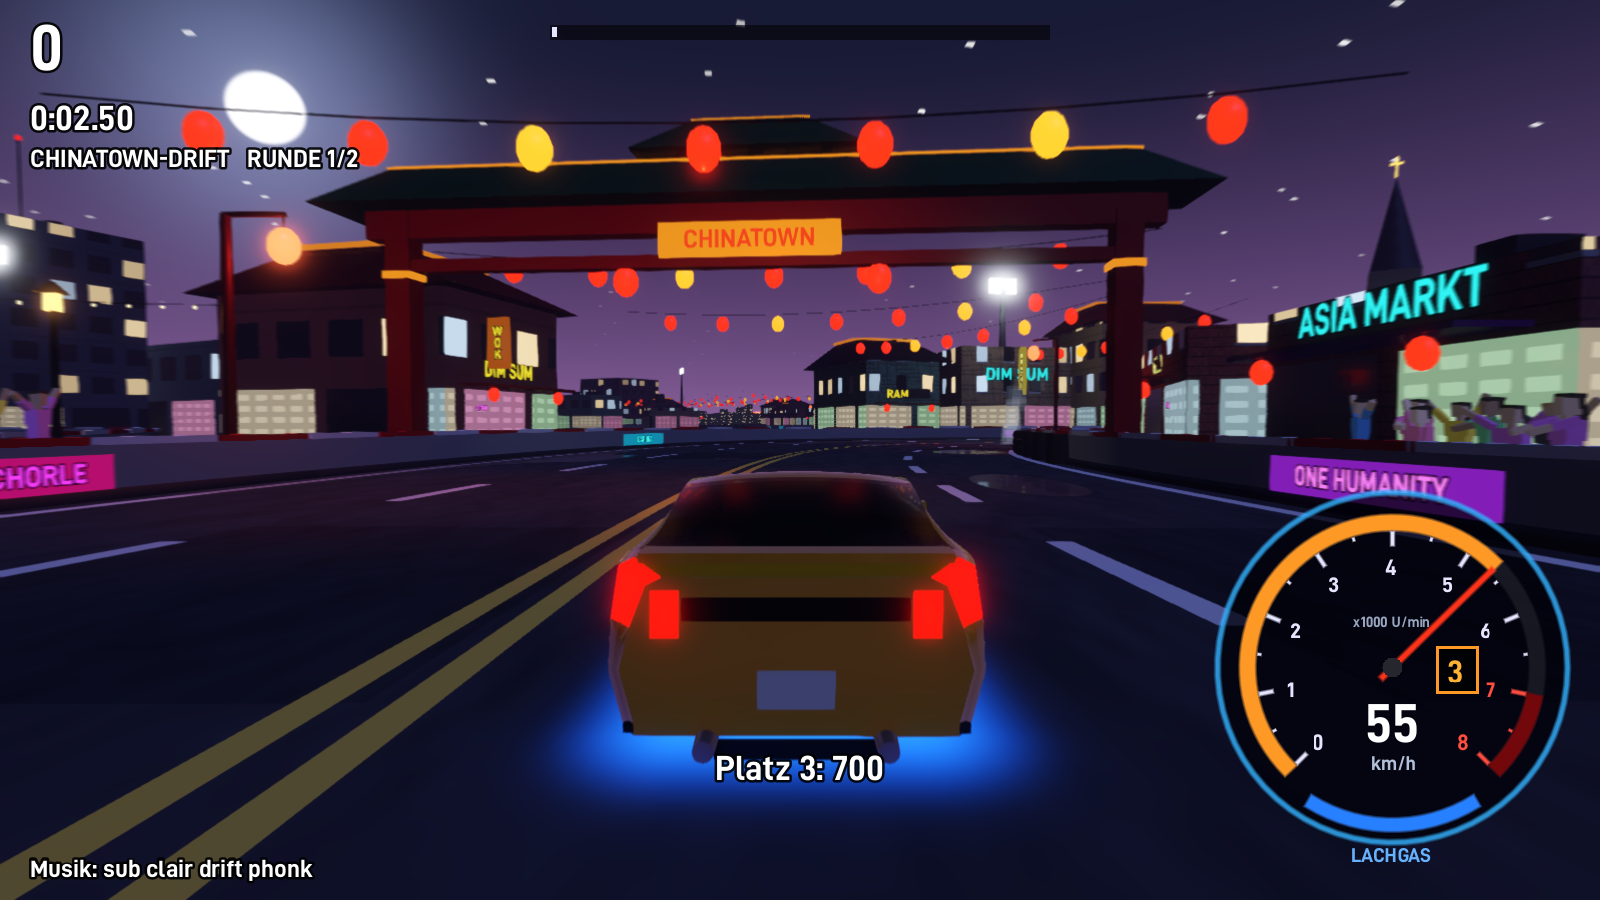
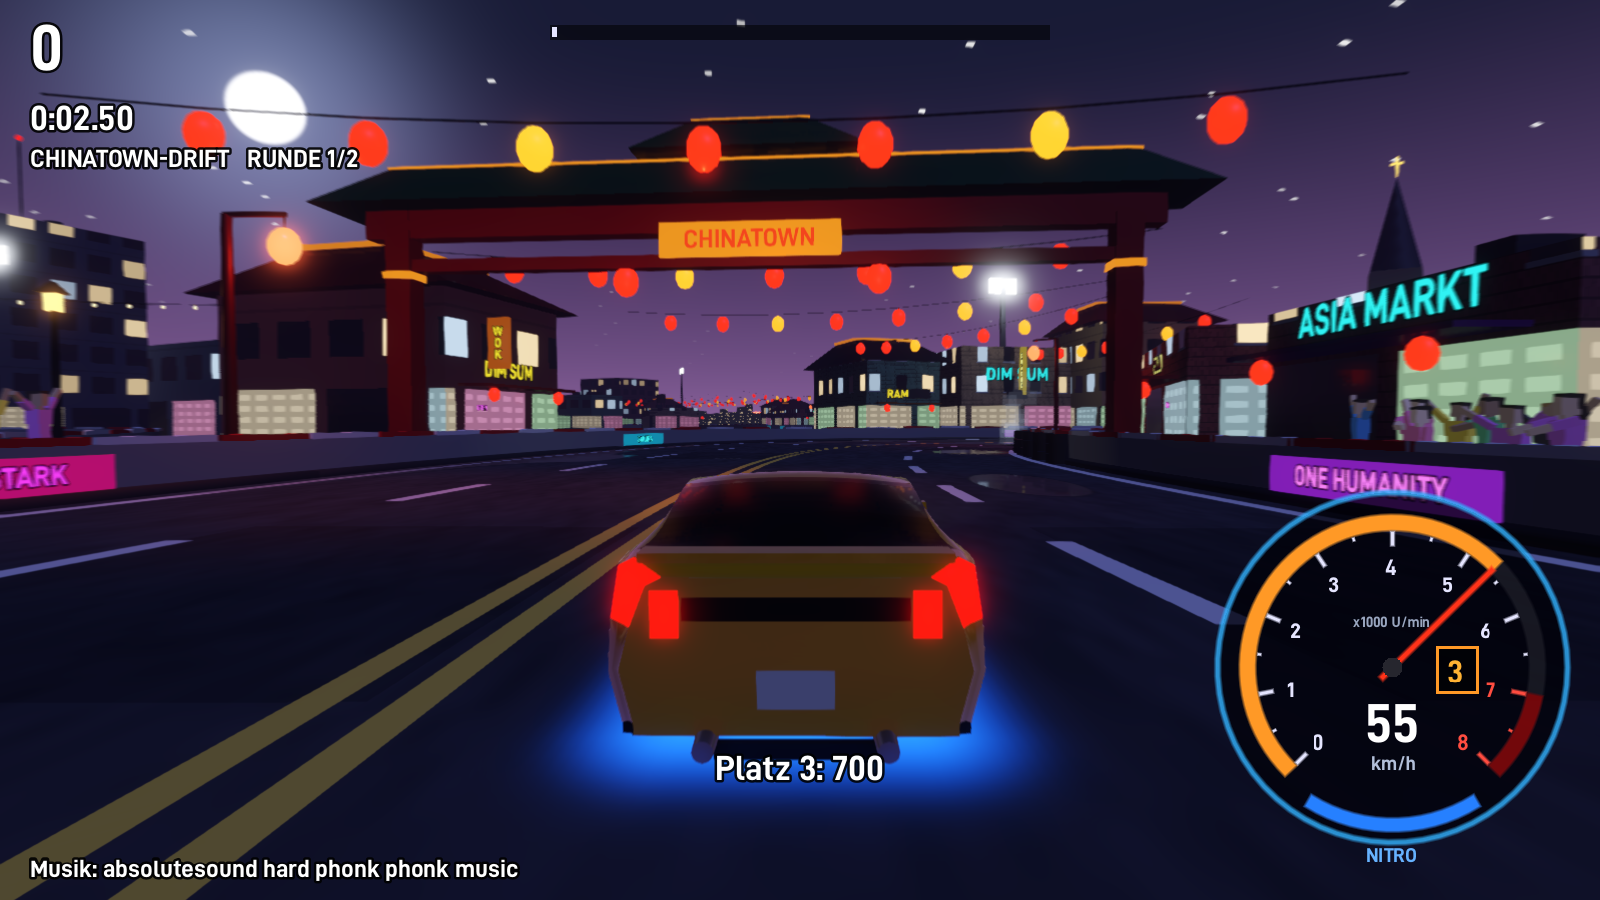
Ton wie NFS statt Sprüchen: Nitro, Knapp vorbei, Sprung, Tuning-Marken, sachliche Ladetipps
Neue Screenshots, Titelbild, Trailer-Tafeln und Short-Texte im gleichen Ton.
Eventnamen Prachtallee-Sprint, Schnellstraßen-Sprint, Schnellstraßen-Drag (Bestzeiten werden übernommen).

diff --git a/release/SHORTS.md b/release/SHORTS.md
@@ -1,98 +1,99 @@
 # Shorts: Need for Geschwindigkeit
 
-Hochkant (9:16), 15 bis 30 Sekunden. Jede Idee: Texteinblendungen in Reihenfolge, Titel, Beschreibung.
+Hochkant (9:16), 15 bis 30 Sekunden, Ton wie die alten NFS-Underground-Trailer: kurz, hart, nachts.
+Jede Idee: Texteinblendungen in Reihenfolge, Titel, Beschreibung.
 Am Ende jedes Shorts dieselbe Abspanntafel: **NEED FOR GESCHWINDIGKEIT · Jetzt kostenlos auf itch.io**.
 
-Hashtags für alle: `#needforgeschwindigkeit #indiegame #rennspiel #streetracing #retrogaming #gamedev #madeingermany`
+Hashtags für alle: `#needforgeschwindigkeit #indiegame #rennspiel #streetracing #nfsunderground #gamedev #madeingermany`
 
 ---
 
-## 1. Würzburg bei Nacht
-Szene: Ludwigsbrücke, Festung Marienberg angestrahlt, dann am Main entlang.
-1. „Der letzte Bus ist weg.“
-2. „Also fährst du halt selbst durch Würzburg.“
-3. „Festung Marienberg: ✔ · Tempolimit: ✘“
+## 1. Die Stadt gehört uns
+Szene: Kamerafahrt übers Startfeld, Starterin, LOS, Start mit Nitro.
+1. „Die Stadt schläft.“
+2. „Wir nicht.“
+3. „Vier Autos. Ein Sieger.“
 
-Titel: Würzburg um 2 Uhr nachts, aber mit Lachgas
-Beschreibung: Echte Straßen, echte Mainbrücken, echte Festung. Wer erkennt die Ecke? `#würzburg #unterfranken`
+Titel: Die Stadt schläft. Wir nicht.
+Beschreibung: Illegale Straßenrennen bei Nacht durch echte deutsche Städte. Kostenlos spielbar.
 
-## 2. Lachgas statt NOS
-Szene: Nitro zünden im Bankenviertel, Speedlines.
-1. „Andere Rennspiele: NOS“
-2. „Wir: LACHGAS“
-3. „Nebenwirkung: Grinsen“
+## 2. Würzburg
+Szene: Ludwigsbrücke, Festung Marienberg angestrahlt, dann am Main entlang zum Alten Kranen.
+1. „Würzburg. 2 Uhr nachts.“
+2. „Zwei Brücken. Eine Festung.“
+3. „Kein Tempolimit.“
 
-Titel: Wir haben NOS übersetzt
-Beschreibung: Knapp am Verkehr vorbei gibt Nachschub. Zu knapp gibt Totalschaden.
+Titel: Würzburg bei Nacht – Sprint über den Main
+Beschreibung: Echte Straßen, echte Mainbrücken, die Festung Marienberg über der Strecke. `#würzburg #unterfranken`
 
-## 3. Teilnahmeurkunde
-Szene: Zieleinfahrt, „4. PLATZ · TEILNAHMEURKUNDE“ im Bild.
-1. „Platz 1: Sieg“
-2. „Platz 4: …“
-3. „Bundesjugendspiele-Flashback inklusive“
+## 3. Aachen
+Szene: Grabenring, Templergraben am SuperC vorbei, Dom im Hintergrund.
+1. „Aachen Grabenring.“
+2. „Zwei Runden. Der Dom im Blick.“
+3. „Wer bremst, verliert.“
 
-Titel: Das einzige Rennspiel mit Teilnahmeurkunde
-Beschreibung: Dabei sein ist alles. Gewinnen ist trotzdem schöner.
+Titel: Aachen Grabenring – Rundkurs um den Dom
+Beschreibung: SuperC, Elisenbrunnen, Theater, der Dom in der Mitte. `#aachen`
 
 ## 4. Bad Kissingen
 Szene: Start am Regentenbau, dann an der Saale entlang zum Gradierbau.
-1. „Bad Kissingen ist ein Kurort.“
-2. „Wir haben ‚Kurvenort‘ verstanden.“
-3. „Ziel: Gradierbau. Tief einatmen.“
+1. „Bad Kissingen.“
+2. „Vom Regentenbau bis zur Saline.“
+3. „Drei Kilometer Vollgas.“
 
-Titel: Kurort? Kurvenort.
-Beschreibung: Vom Regentenbau an der Fränkischen Saale entlang bis zur Saline. Welterbe mit Vollgas. `#badkissingen`
+Titel: Bad Kissingen – Sprint durchs Kurviertel
+Beschreibung: Regentenbau, Arkadenbau, Fränkische Saale, Gradierbau. `#badkissingen`
 
-## 5. Aachen Grabenring
-Szene: Kamerafahrt übers Startfeld, Starterin, dann Templergraben am SuperC vorbei.
-1. „Zwei Runden um den Dom.“
-2. „Karl der Große wäre stolz.“
-3. „Oder würde einen Strafzettel schreiben.“
+## 5. Tauberbischofsheim
+Szene: Altstadtring, Türmersturm im Hintergrund.
+1. „Tauberbischofsheim.“
+2. „Drei Runden um die Altstadt.“
+3. „Jede Kurve zählt.“
 
-Titel: Aachener Grabenring, Kaiser-Edition
-Beschreibung: SuperC, Elisenbrunnen, Theater, Dom in der Mitte. Öcher wissen, wo das ist. `#aachen`
+Titel: Tauberbischofsheim – Altstadtring bei Nacht
+Beschreibung: Türmersturm, Rathaus, St. Martin. `#tauberbischofsheim #taubertal`
 
-## 6. Drag-Rennen
+## 6. Hammelburg
+Szene: Rathaus mit Marktbrunnen, über die Saale, den Schlossberg hoch, Zielszene mit Fans.
+1. „Hammelburg.“
+2. „Über die Saale. Den Berg hinauf.“
+3. „Ziel: Schloss Saaleck.“
+
+Titel: Hammelburg – Sprint hinauf nach Saaleck
+Beschreibung: Rathaus, Marktbrunnen, Fränkische Saale, Weinberge, Schloss Saaleck. `#hammelburg #unterfranken`
+
+## 7. Nitro
+Szene: Bankenviertel, Nitro zünden, Speedlines, knapp am Verkehr vorbei.
+1. „Knapp vorbei.“
+2. „Nitro voll.“
+3. „Zünden.“
+
+Titel: Knapp vorbei. Nitro voll.
+Beschreibung: Wer knapp am Verkehr vorbeizieht, füllt sein Nitro.
+
+## 8. Drag
 Szene: Drehzahlmesser, „PERFEKT GESCHALTET“, Viertelmeile.
-1. „Viertelmeile ohne Tempolimit“
-2. „Im grünen Bereich schalten“
-3. „Zu spät? Motorschaden. Wie im echten Leben, nur billiger.“
+1. „Viertelmeile.“
+2. „Schalten im grünen Bereich.“
+3. „Zu spät, und der Motor ist hin.“
 
-Titel: Schalten ist wie Mülltrennung: einfach richtig machen
-Beschreibung: Handschaltung mit E und Q, Spurwechsel mit A und D. Wer im Begrenzer bleibt, kocht den Motor.
-
-## 7. Hammelburg
-Szene: Rathaus mit Marktbrunnen, über die Saale, den Schlossberg hoch, Zielszene mit Fans, Schloss Saaleck oben.
-1. „Hammelburg: älteste Weinstadt Frankens.“
-2. „Wir nehmen trotzdem nur den Berg mit.“
-3. „Ziel: Schloss Saaleck. Fans: schon da.“
-
-Titel: Den Weinberg hoch, aber mit Lachgas
-Beschreibung: Rathaus, Marktbrunnen, Fränkische Saale, Schloss Saaleck. `#hammelburg #unterfranken`
-
-## 8. Tauberbischofsheim
-Szene: Runden um die Altstadt, Türmersturm im Hintergrund.
-1. „Tauberbischofsheim: Fechterstadt.“
-2. „Wir fechten lieber mit 200 km/h.“
-3. „Drei Runden um den Türmersturm. En garde.“
-
-Titel: Fechten, aber auf vier Rädern
-Beschreibung: Altstadtring mit Türmersturm, Rathaus und St. Martin. `#tauberbischofsheim #taubertal`
+Titel: Drag-Rennen – perfekt schalten oder verlieren
+Beschreibung: Handschaltung mit E und Q, Spurwechsel mit A und D. Wer im Begrenzer bleibt, überhitzt den Motor.
 
 ## 9. Drift
-Szene: Chinatown-Drift, Kette x5.
-1. „Quer ist das neue Gerade.“
-2. „Bande berührt? Kette weg.“
-3. „Wie beim Einparken. Nur mit Punkten.“
+Szene: Chinatown-Drift, Kette bis x5.
+1. „Drift-Wertung.“
+2. „Ketten bis x5.“
+3. „Eine Bande, und alles ist weg.“
 
-Titel: Quer ist das neue Gerade
-Beschreibung: Driften gibt Punkte, Ketten geben Multiplikator, die Bande gibt Ärger.
+Titel: Drift bis x5
+Beschreibung: Querfahren gibt Punkte, Ketten geben Multiplikator, jede Berührung mit der Bande kostet die Kette.
 
-## 10. Welche Stadt fehlt?
+## 10. Echte Städte
 Szene: Schnitt durch alle fünf Städte, jeweils mit gelbem Ortsschild.
-1. „Aachen ✔ Würzburg ✔ Bad Kissingen ✔“
-2. „Tauberbischofsheim ✔ Hammelburg ✔“
-3. „Und deine Stadt? Ab in die Kommentare.“
+1. „Aachen. Würzburg. Bad Kissingen.“
+2. „Tauberbischofsheim. Hammelburg.“
+3. „Echte Städte. Echte Straßen.“
 
 Titel: Echte deutsche Städte als Rennstrecke
 Beschreibung: Straßen aus OpenStreetMap, Wahrzeichen an ihrem Platz. Kartendaten © OpenStreetMap-Mitwirkende.

diff --git a/README.md b/README.md
@@ -123,8 +123,8 @@ DIN-Schmalschrift, große Abschnittstitel (GARAGE, RENNEN, TUNING, AUTOHAUS), Le
 Motor-Tuning), Tastenleiste unten, wechselnde Tipps oben rechts. Pause und Ergebnis im gleichen Look.
 
 ## Schrift und Texte
-Alles auf Deutsch, mit Augenzwinkern (Lachgas statt NOS, Flugmodus bei Sprüngen, Teilnahmeurkunde für Platz 4,
-Dachwerbung wie „TÜV? NÄCHSTES JAHR.“). Schrift überall im Stil der deutschen Straßenschilder (DIN 1451):
+Alles auf Deutsch, im Ton von NFS Underground (KNAPP VORBEI +NITRO, DRIFT +NITRO, SPRUNG, Tuning-Marken auf den
+Dächern, Ladetipps im Menü). Schrift überall im Stil der deutschen Straßenschilder (DIN 1451):
 D-DIN von Datto, SIL Open Font License 1.1 (`assets/fonts/COPYING.txt`). Alte englische Eventnamen werden im
 Spielstand automatisch umgeschrieben, der Spielstand aus „Underground Sprint“ wird beim ersten Start übernommen.
 

diff --git a/release/ITCH_PAGE.md b/release/ITCH_PAGE.md
@@ -8,7 +8,7 @@ Alles, was du auf der neuen itch.io-Seite eintragen musst (das Spiel hieß früh
 |---|---|
 | Title | Need for Geschwindigkeit |
 | Project URL | wie beim Anlegen gewählt, z. B. `need-for-geschwindigkeit` (für `push_itch.sh` als 3. Angabe) |
-| Short description / tagline | Straßenrennen bei Nacht durch echte deutsche Städte. Lachgas statt NOS, TÜV erst nächstes Jahr. Kostenlos. |
+| Short description / tagline | Illegale Straßenrennen bei Nacht durch echte deutsche Städte. Tunen, Nitro, Drift, Drag. Kostenlos. |
 | Classification | Games |
 | Kind of project | Downloadable + HTML |
 | Release status | In development |
